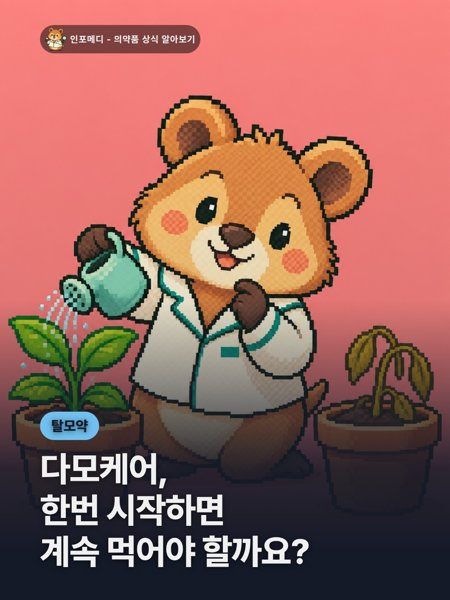
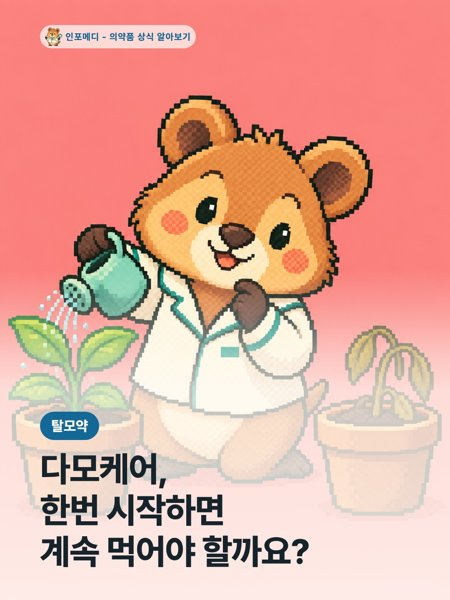
links

diff --git a/index.html b/index.html
@@ -34,7 +34,7 @@
 <section class="section">
 <h2>의약품 정보 <small id="count"></small></h2>
 <div class="grid" id="list">
-<a class="item" href="https://blog.naver.com/info_medi_/224422848493"><img src="c/다모케어-white.jpg" alt="" loading="lazy">
+<a class="item" href="https://blog.naver.com/info_medi_/224422848493"><img src="c/다모케어.jpg" alt="" loading="lazy">
 <span><b>다모케어, 한번 시작하면 계속 먹어야 할까요?</b><small><time datetime="2026-10-11 10:12"></time></small></span></a>
 <a class="item" href="https://blog.naver.com/info_medi_/224423440467"><img src="c/덱스파놀.jpg" alt="" loading="lazy">
 <span><b>덱스파놀, 스테로이드 연고와 무엇이 다를까요?</b><small><time datetime="2026-10-10 21:17"></time></small></span></a>
